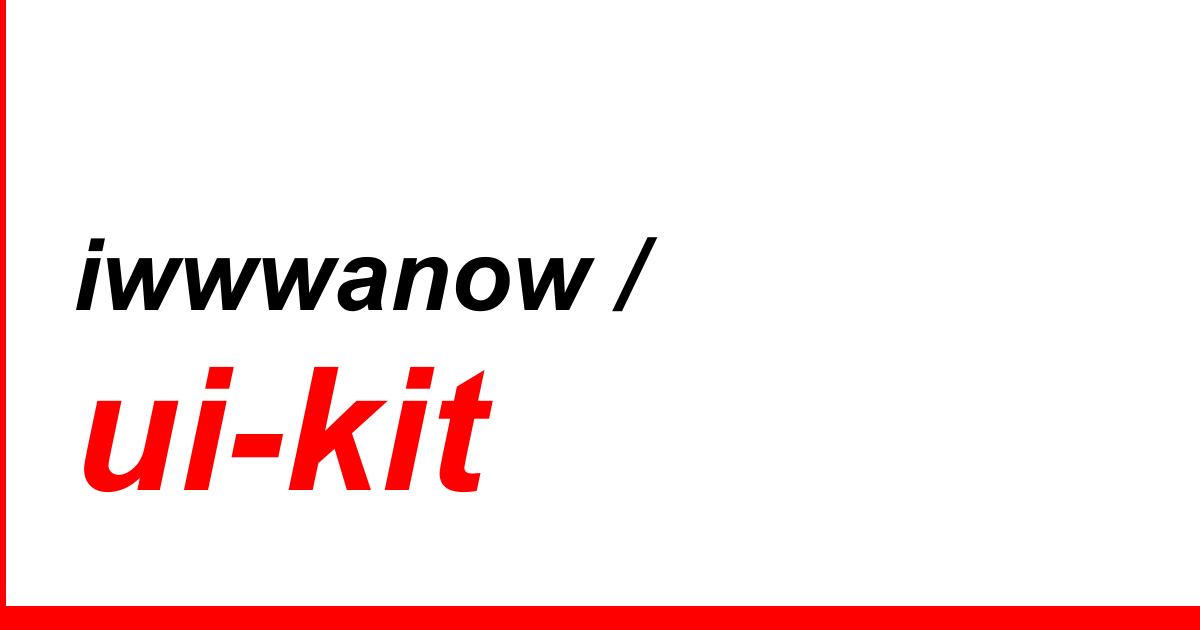
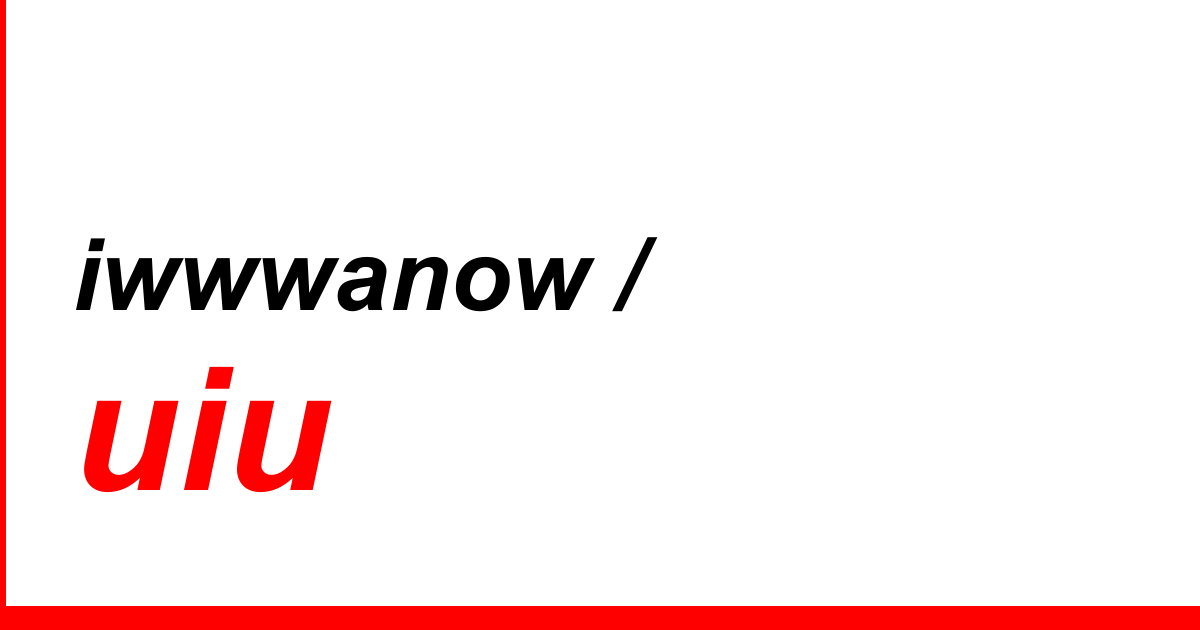
chore(common): rename ui-kit to uiu
Repo renamed on GitHub; Pages now at iwwwanow.github.io/uiu/.
package.json name/version aligned (iwwwanow-uiu, 0.2.0); og image re-rendered.

Changed region(s): [[0.185, 0.573, 0.4317, 0.7841], [0.2467, 0.573, 0.2775, 0.6333]]

diff --git a/index.html b/index.html
@@ -5,19 +5,19 @@
   <meta name="viewport" content="width=device-width, initial-scale=1.0" />
   <meta name="theme-color" content="#e0e0e0" />
 
-  <title>owo — iwwwanow / ui-kit</title>
+  <title>owo — iwwwanow / uiu</title>
   <meta name="description" content="owo styles copied 1:1: tokens, typography, grid, hr, borders, media card. The design language of iwwwanow.ru." />
 
   <meta property="og:type" content="website" />
-  <meta property="og:title" content="owo — iwwwanow / ui-kit" />
+  <meta property="og:title" content="owo — iwwwanow / uiu" />
   <meta property="og:description" content="owo styles copied 1:1: tokens, typography, grid, hr, borders, media card." />
-  <meta property="og:url" content="https://iwwwanow.github.io/ui-kit/" />
-  <meta property="og:image" content="https://iwwwanow.github.io/ui-kit/og.png" />
+  <meta property="og:url" content="https://iwwwanow.github.io/uiu/" />
+  <meta property="og:image" content="https://iwwwanow.github.io/uiu/og.png" />
   <meta property="og:image:type" content="image/png" />
   <meta property="og:image:width" content="1200" />
   <meta property="og:image:height" content="630" />
   <meta name="twitter:card" content="summary_large_image" />
-  <meta name="twitter:image" content="https://iwwwanow.github.io/ui-kit/og.png" />
+  <meta name="twitter:image" content="https://iwwwanow.github.io/uiu/og.png" />
 
   <link rel="icon" type="image/svg+xml" href="assets/logo.svg" />
   <link rel="stylesheet" href="owo.css?v=0.2.0" />
@@ -57,10 +57,10 @@
   <div class="wrapper">
 
     <header class="grid header">
-      <a href="./"><h5>iwwwanow / ui-kit</h5></a>
+      <a href="./"><h5>iwwwanow / uiu</h5></a>
       <h5>owo</h5>
       <a href="ai-generated.html"><h5>ai-generated</h5></a>
-      <a href="https://github.com/iwwwanow/ui-kit"><h5>github</h5></a>
+      <a href="https://github.com/iwwwanow/uiu"><h5>github</h5></a>
     </header>
 
     <div class="grid">
@@ -441,7 +441,7 @@
     <footer class="grid footer">
       <fieldset class="hr_fieldset"><legend><h6>footer</h6></legend></fieldset>
       <h5><a href="https://github.com/iwwwanow/owo">owo</a></h5>
-      <h5><a href="https://github.com/iwwwanow/ui-kit">ui-kit v0.2.0</a></h5>
+      <h5><a href="https://github.com/iwwwanow/uiu">uiu v0.2.0</a></h5>
     </footer>
 
   </div>

diff --git a/ai-generated.html b/ai-generated.html
@@ -5,16 +5,16 @@
   <meta name="viewport" content="width=device-width, initial-scale=1.0" />
   <meta name="theme-color" content="#e0e0e0" />
 
-  <title>ai-generated — iwwwanow / ui-kit</title>
+  <title>ai-generated — iwwwanow / uiu</title>
   <meta name="description" content="UI components generated by AI on top of owo. Not hand-crafted." />
 
   <meta property="og:type" content="website" />
-  <meta property="og:title" content="ai-generated — iwwwanow / ui-kit" />
+  <meta property="og:title" content="ai-generated — iwwwanow / uiu" />
   <meta property="og:description" content="UI components generated by AI on top of owo. Not hand-crafted." />
-  <meta property="og:url" content="https://iwwwanow.github.io/ui-kit/ai-generated.html" />
-  <meta property="og:image" content="https://iwwwanow.github.io/ui-kit/og.png" />
+  <meta property="og:url" content="https://iwwwanow.github.io/uiu/ai-generated.html" />
+  <meta property="og:image" content="https://iwwwanow.github.io/uiu/og.png" />
   <meta name="twitter:card" content="summary_large_image" />
-  <meta name="twitter:image" content="https://iwwwanow.github.io/ui-kit/og.png" />
+  <meta name="twitter:image" content="https://iwwwanow.github.io/uiu/og.png" />
 
   <link rel="icon" type="image/svg+xml" href="assets/logo.svg" />
   <link rel="stylesheet" href="owo.css?v=0.2.0" />
@@ -38,10 +38,10 @@
   <div class="wrapper">
 
     <header class="grid header">
-      <a href="./"><h5>iwwwanow / ui-kit</h5></a>
+      <a href="./"><h5>iwwwanow / uiu</h5></a>
       <a href="./"><h5>owo</h5></a>
       <h5>ai-generated</h5>
-      <a href="https://github.com/iwwwanow/ui-kit"><h5>github</h5></a>
+      <a href="https://github.com/iwwwanow/uiu"><h5>github</h5></a>
     </header>
 
     <div class="grid">
@@ -497,7 +497,7 @@
     <footer class="grid footer">
       <fieldset class="hr_fieldset"><legend><h6>footer</h6></legend></fieldset>
       <h5><a href="https://github.com/iwwwanow/owo">owo</a></h5>
-      <h5><a href="https://github.com/iwwwanow/ui-kit">ui-kit v0.2.0</a></h5>
+      <h5><a href="https://github.com/iwwwanow/uiu">uiu v0.2.0</a></h5>
     </footer>
 
   </div>

diff --git a/index.css b/index.css
@@ -1,5 +1,5 @@
 /* =====================================================
-   iwwwanow / ui-kit  v0.2.0
+   iwwwanow / uiu  v0.2.0
    owo.css          — owo styles copied 1:1 (scripts/sync-owo.sh),
                       plus a marked "deviations" block at the end
    ai-generated.css — AI-generated components on top of owo

diff --git a/docs/backlog/2026-10-24_repo-rename-options.md b/docs/backlog/2026-10-24_repo-rename-options.md
@@ -10,3 +10,5 @@
 - Если всё-таки скучно-описательное: `html-studio`, `kit-editor`.
 
 При переименовании поменяется: URL GitHub Pages (`iwwwanow.github.io/ui-kit/`), `name` в `package.json`, README и og-мета, локальная папка `iwwwanow_ui-kit` (и привязанная к пути память Claude).
+
+**Решение (2026-10-24):** `uiu`. Репозиторий переименован, Pages переехал на `iwwwanow.github.io/uiu/`.

diff --git a/README.md b/README.md
@@ -1,8 +1,8 @@
-# iwwwanow / ui-kit
+# iwwwanow / uiu
 
 The design language of [owo](https://github.com/iwwwanow/owo) (the engine behind [iwwwanow.ru](https://iwwwanow.ru)) as a drop-in stylesheet, plus a set of AI-generated components built on top of it.
 
-**Preview →** https://iwwwanow.github.io/ui-kit/ · [ai-generated](https://iwwwanow.github.io/ui-kit/ai-generated.html)
+**Preview →** https://iwwwanow.github.io/uiu/ · [ai-generated](https://iwwwanow.github.io/uiu/ai-generated.html)
 
 ## Files
 
